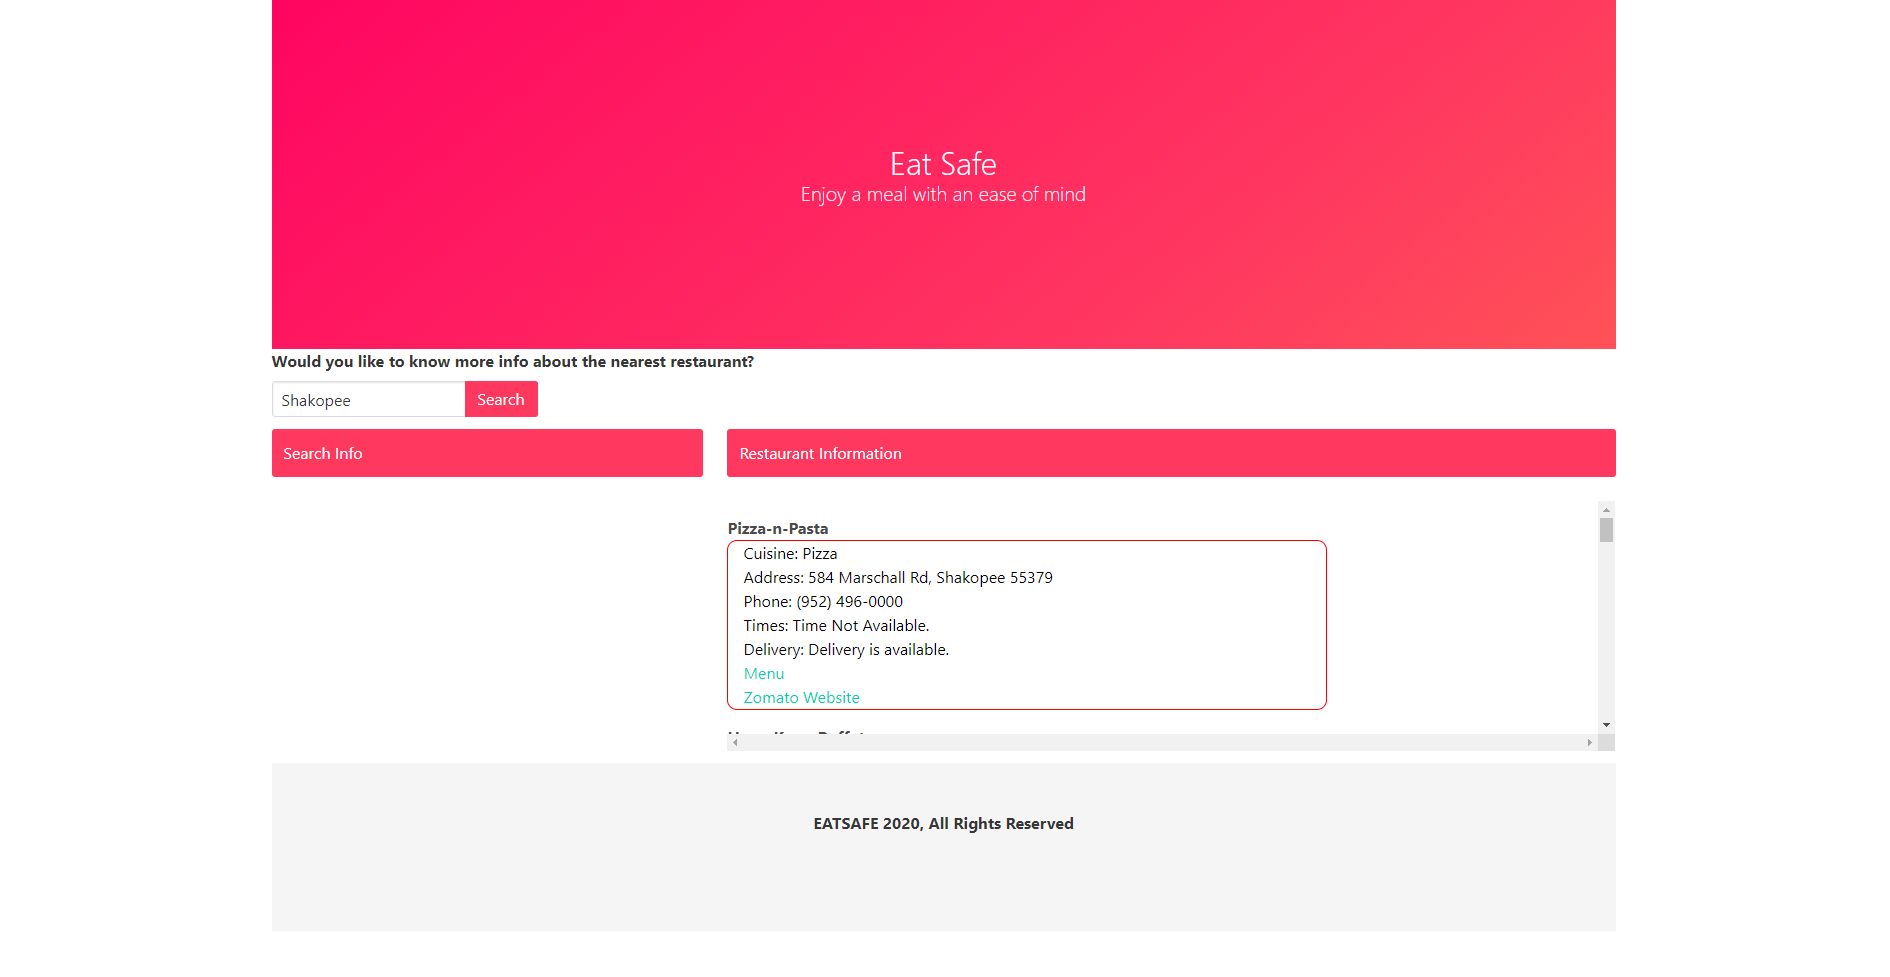
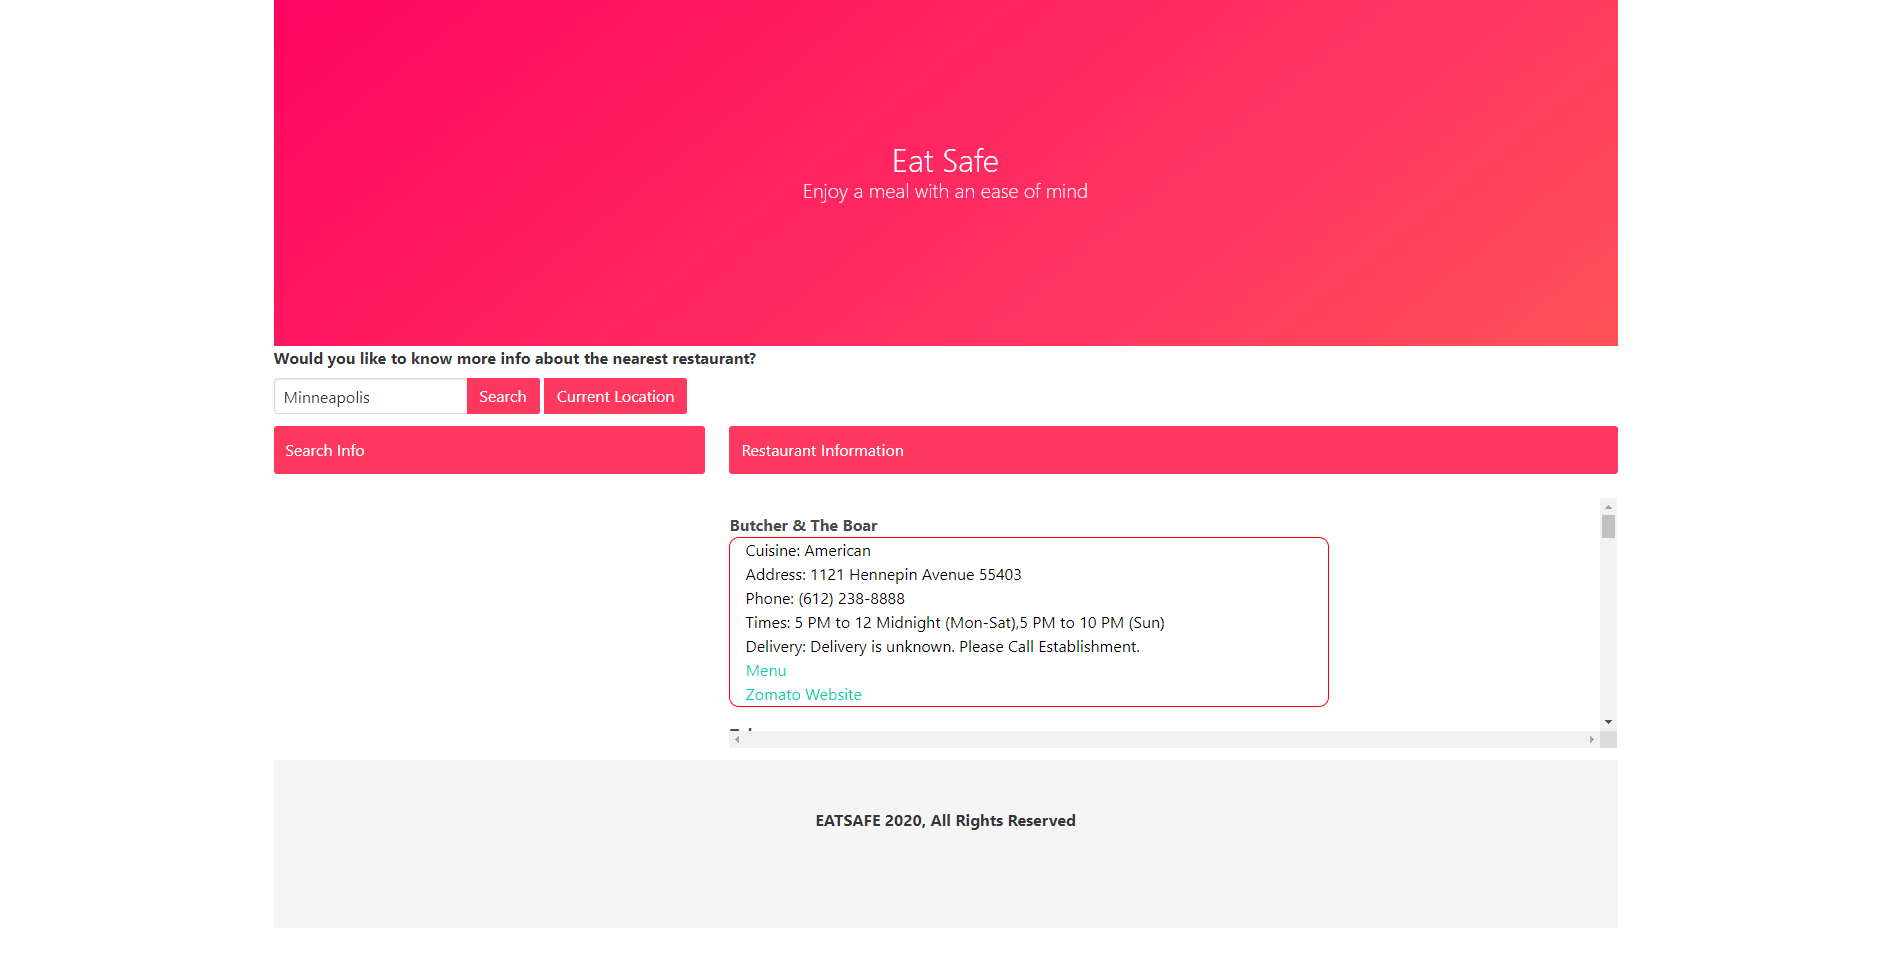
forgot to add button. Edited README. with up to date screenshot

diff --git a/index.html b/index.html
@@ -47,9 +47,13 @@
             <a class="button is-info is-danger searchbtn" >
               Search
             </a>
+            <a class="button is-info is-danger currentLoc">
+              Current Location
+            </a>
           </div>
         </div>
 
+       
 
             <!--Code works columns are found -->
             <div class="columns">

diff --git a/README.md b/README.md
@@ -1,10 +1,11 @@
 ## Eat Safe
 
-    This app features a search for restaurants in the city of your choosing. Then displays the restaurant name, address, cuisine types, phone number, and links to the menu and zomato website.
+    This app features a search for restaurants in the city of your choosing. Then displays the 
+    restaurant name, address, cuisine types, phone number, and links to the menu and zomato website.
 
 # Screenshot
 
-<img width="1276" alt="Screen Shot 2020-05-15 at 7 17 46 PM" src="https://user-images.githubusercontent.com/25271965/82105422-dba3b080-96e0-11ea-91ce-8ab85001724d.png">
+[screenshot](Assets/screenshot.png)
 
 # API's used
 
@@ -20,5 +21,5 @@
 
 # LINK
 
-[   Eat Safe](https://sornwill.github.io/eatsafe/)
+[Eat Safe](https://sornwill.github.io/eatsafe/)
 
